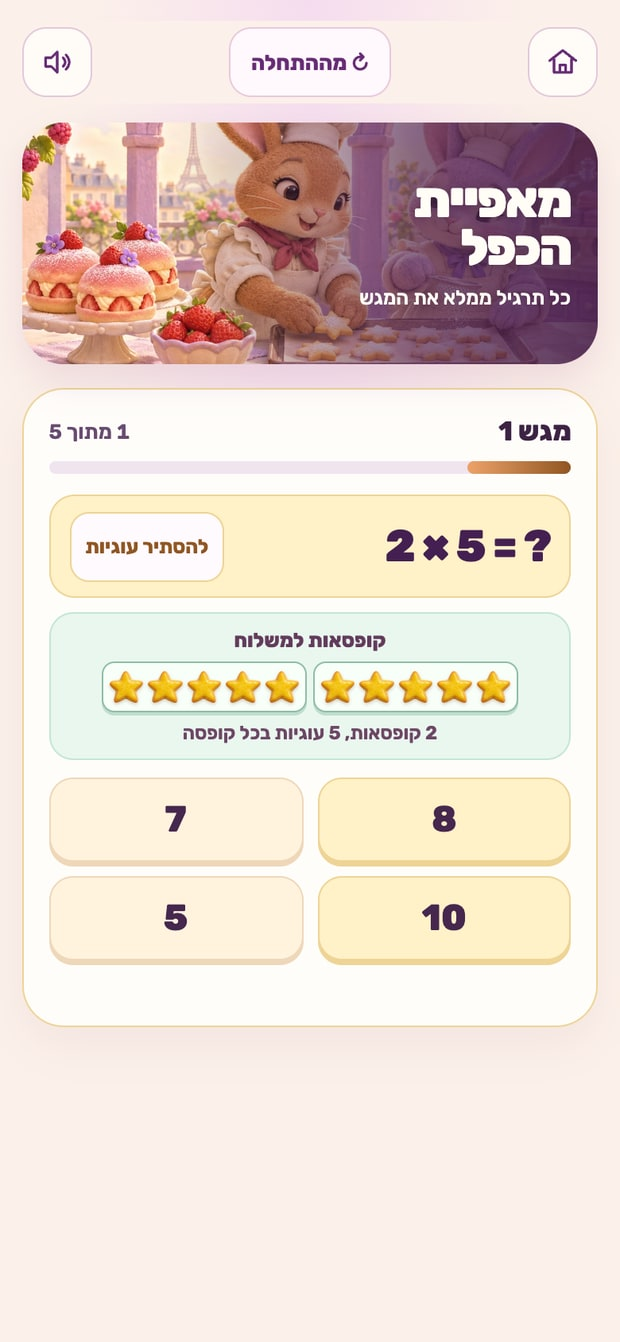
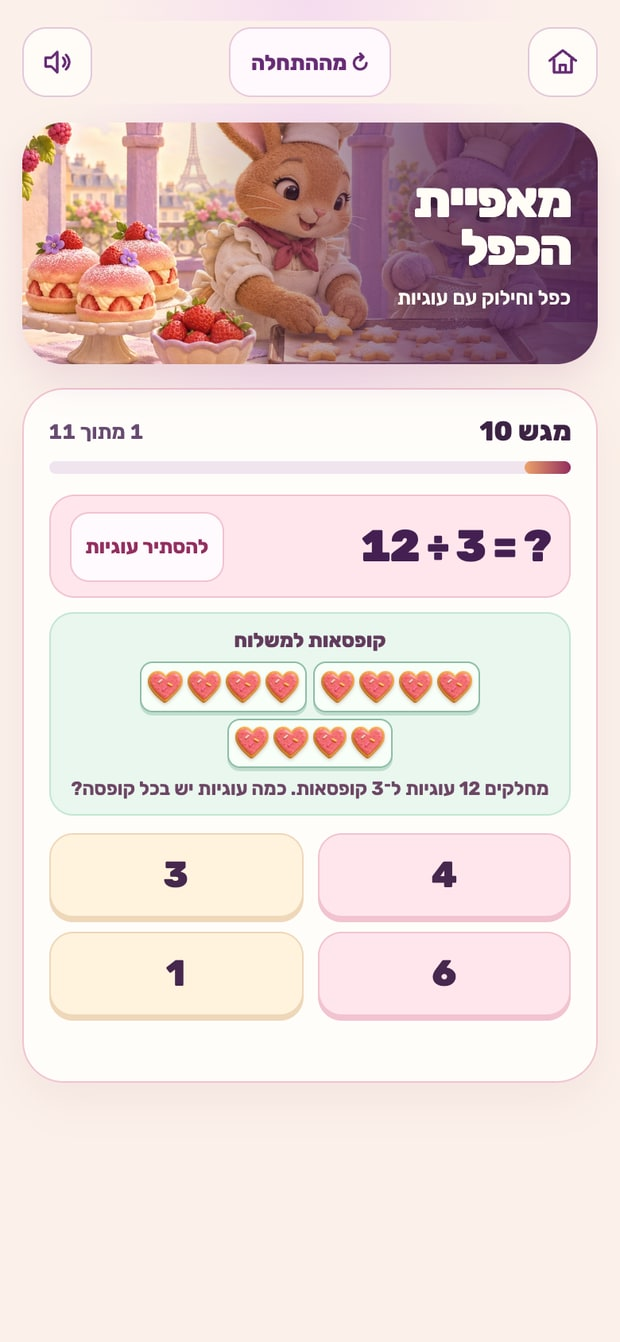
Practice exact division alongside multiplication

Changed region(s): [[0.0306, 0.3055, 0.9806, 0.7943], [0.5823, 0.2139, 0.8887, 0.2444], [0.0919, 0.3055, 0.2452, 0.3361]]

diff --git a/game.js b/game.js
@@ -1,4 +1,4 @@
-import { makeFact, orderSize } from "./facts.js?v=2";
+import { makeFact, orderSize } from "./facts.js?v=3";
 import { makeSound } from "./sound.js?v=4";
 
 const $ = id => document.getElementById(id);
@@ -61,7 +61,14 @@ function makeCookies() {
   const grid = document.createElement("div");
   grid.className = "cookie-grid";
   grid.style.setProperty("--columns", layout.id === "boxes" ? Math.min(5, fact.b) : fact.b);
-  grid.setAttribute("aria-hidden", "true");
+  const groupCount = fact.a === 1 ? "קבוצה אחת" : fact.a + " " + layout.groups;
+  if (fact.operation === "division") {
+    grid.setAttribute("role", "img");
+    const cookiesPerGroup = fact.b === 1 ? "עוגייה אחת" : fact.b + " עוגיות";
+    grid.setAttribute("aria-label", groupCount + ", " + cookiesPerGroup + " בכל " + layout.unit);
+  } else {
+    grid.setAttribute("aria-hidden", "true");
+  }
   for (let group = 0; group < fact.a; group++) {
     const row = document.createElement("div");
     row.className = "cookie-group";
@@ -77,9 +84,17 @@ function makeCookies() {
   }
   const caption = document.createElement("p");
   caption.className = "cookie-caption";
-  caption.textContent = fact.missing === "a" ? "ספרו כמה " + layout.groups + " יש."
-    : fact.missing === "b" ? "ספרו כמה עוגיות יש בכל " + layout.unit + "."
-    : fact.a + " " + layout.groups + ", " + fact.b + " עוגיות בכל " + layout.unit;
+  if (fact.operation === "division") {
+    const total = fact.product === 1 ? "עוגייה אחת" : fact.product + " עוגיות";
+    const arrangement = fact.a === 1 ? "שמים " + total + " בקבוצה אחת" : "מחלקים " + total + " ל־" + groupCount;
+    caption.textContent = arrangement + ". כמה עוגיות יש בכל " + layout.unit + "?";
+  } else if (fact.missing === "a") {
+    caption.textContent = "ספרו כמה " + layout.groups + " יש.";
+  } else if (fact.missing === "b") {
+    caption.textContent = "ספרו כמה עוגיות יש בכל " + layout.unit + ".";
+  } else {
+    caption.textContent = fact.a + " " + layout.groups + ", " + fact.b + " עוגיות בכל " + layout.unit;
+  }
   model.replaceChildren(label, grid, caption);
 }
 
@@ -90,8 +105,9 @@ function newOrder() {
   flavor = (level - 1 + solved) % recipes.length;
   workbench.dataset.flavor = recipes[flavor];
   feedback.textContent = "";
-  const equation = [fact.missing === "a" ? "?" : fact.a, "×", fact.missing === "b" ? "?" : fact.b,
-    "=", fact.missing === "product" ? "?" : fact.product];
+  const equation = fact.operation === "division" ? [fact.product, "÷", fact.a, "=", "?"]
+    : [fact.missing === "a" ? "?" : fact.a, "×", fact.missing === "b" ? "?" : fact.b,
+      "=", fact.missing === "product" ? "?" : fact.product];
   $("problem").textContent = equation.join(" ");
   makeCookies();
   renderModel(false);
@@ -124,7 +140,9 @@ function choose(value, button) {
   progress();
   button.classList.add("correct");
   for (const option of choices.children) option.setAttribute("aria-disabled", "true");
-  feedback.textContent = "נכון! " + fact.a + " כפול " + fact.b + " שווה " + fact.product;
+  feedback.textContent = fact.operation === "division"
+    ? "נכון! " + fact.product + " לחלק ל־" + fact.a + " שווה " + fact.b
+    : "נכון! " + fact.a + " כפול " + fact.b + " שווה " + fact.product;
   const complete = solved === orderSize(level);
   play(complete ? "ready" : "correct", flavor);
   save(complete ? level + 1 : level);

diff --git a/facts.js b/facts.js
@@ -14,13 +14,14 @@ export function shuffle(values, random = Math.random) {
 }
 
 export function makeFact(level, solved, previous, mistakes, random = Math.random) {
+  const operation = solved % 3 === 1 ? "division" : "multiplication";
   const unlocked = tables.slice(0, level + 1);
   const focus = level <= 9 ? unlocked.at(-1) : null;
   const candidates = [];
   let weightSum = 0;
   for (const a of unlocked) {
     for (let b = 1; b <= Math.min(4 + level, 10); b++) {
-      const key = a + "x" + b;
+      const key = a + (operation === "division" ? "d" : "x") + b;
       if (key === previous) continue;
       weightSum += 1 + (a === focus ? 3 : 0) + Math.min(5, mistakes[key] || 0) * 2;
       candidates.push({ a, b, key, threshold: weightSum });
@@ -30,12 +31,15 @@ export function makeFact(level, solved, previous, mistakes, random = Math.random
   const pick = random() * weightSum;
   const fact = candidates.find(candidate => candidate.threshold > pick);
   let { a, b } = fact;
-  if (level >= 4 && random() < .44) [a, b] = [b, a];
-  const missing = level >= 6 && (solved + level) % (level >= 10 ? 2 : 3) === 0
-    ? (random() < .5 ? "a" : "b")
-    : "product";
+  if (operation === "multiplication" && level >= 4 && random() < .44) [a, b] = [b, a];
+  let missing = "product";
+  if (operation === "division") {
+    missing = "quotient";
+  } else if (level >= 6 && (solved + level) % (level >= 10 ? 2 : 3) === 0) {
+    missing = random() < .5 ? "a" : "b";
+  }
   const product = a * b;
-  const answer = missing === "a" ? a : missing === "b" ? b : product;
+  const answer = missing === "a" ? a : missing === "b" || missing === "quotient" ? b : product;
   const limit = missing === "product" ? 100 : 10;
   const near = missing === "product"
     ? [product-a, product+a, product-b, product+b, product-2, product+2, a+b]
@@ -50,5 +54,5 @@ export function makeFact(level, solved, previous, mistakes, random = Math.random
     if (options.size < 4 && answer - offset >= 1) options.add(answer - offset);
   }
 
-  return { a, b, key: fact.key, missing, answer, product, options: shuffle([...options], random) };
+  return { a, b, key: fact.key, operation, missing, answer, product, options: shuffle([...options], random) };
 }

diff --git a/index.html b/index.html
@@ -5,13 +5,13 @@
   <meta name="viewport" content="width=device-width, initial-scale=1, viewport-fit=cover">
   <meta name="theme-color" content="#fcf1ea">
   <meta name="apple-mobile-web-app-title" content="מאפיית הכפל">
-  <meta name="description" content="אופים מגשי כפל, פותרים תרגילים ומתקדמים בלוח הכפל עד 10×10.">
+  <meta name="description" content="ממלאים מגשי עוגיות עם תרגילי כפל וחילוק המבוססים על לוח הכפל עד 10×10.">
   <title>מאפיית הכפל</title>
   <link rel="icon" href="assets/icon-192.png" type="image/png">
   <link rel="apple-touch-icon" href="assets/apple-touch-icon.png" sizes="180x180">
   <link rel="manifest" href="manifest.json">
   <link rel="stylesheet" href="style.css?v=4">
-  <script type="module" src="game.js?v=5"></script>
+  <script type="module" src="game.js?v=6"></script>
 </head>
 <body>
   <main class="app">
@@ -29,7 +29,7 @@
       <img src="assets/shop.webp" alt="" fetchpriority="high" draggable="false">
       <div class="banner-copy">
         <h1>מאפיית<br>הכפל</h1>
-        <p>כל תרגיל ממלא את המגש</p>
+        <p>כפל וחילוק עם עוגיות</p>
       </div>
     </section>
 

diff --git a/README.md b/README.md
@@ -1,13 +1,13 @@
 # מאפיית הכפל
 
-משחק מגע ללימוד ותרגול לוח הכפל עד 10×10. כל תשובה נכונה ממלאת מקום במגש ומקדמת לתרגיל הבא.
+משחק מגע לתרגול כפל עד 10×10 וחילוק עם תוצאה שלמה מאותו לוח, למשל 56 ÷ 7. כל תשובה נכונה ממלאת מקום במגש ומקדמת לתרגיל הבא.
 
 **[לפתוח ולשחק](https://amitshe.github.io/multiplication-bakery/)** · **[מגרש המשחקים](https://amitshe.github.io/)**
 
 ## איך משחקים
 
 1. בוחרים את התשובה הנכונה מתוך ארבע אפשרויות.
-2. לוחצים על **לראות עוגיות** כדי לראות את הכפל בעוגיות מאוירות. העזרה מתחלפת בין שורות במגש, קופסאות ומדפי ויטרינה, ונסגרת כשמופיע תרגיל חדש.
+2. לוחצים על **לראות עוגיות** כדי להמחיש את התרגיל. בתרגיל חילוק מחלקים את הכמות לקבוצות שוות וסופרים כמה עוגיות יש בכל קבוצה. העזרה נסגרת כשמופיע תרגיל חדש.
 3. אם טעיתם, בוחרים תשובה אחרת באותו תרגיל. תרגילים שקשה בהם מקבלים סיכוי גבוה יותר לחזור.
 4. כשהמגש מלא, מופיע מגש עוגיות מונפש. מקישים על **למגש הבא** וממשיכים ללוחות נוספים, תרגילים עם גורם חסר ומגשים עם יותר תרגילים. אפשר להמשיך לעוד מגשים בלי שלב סיום.
 
@@ -19,7 +19,7 @@
 
 <p align="center">
   <img src="screenshots/tray.jpg" alt="מגש התרגול עם שורות עוגיות" width="185">
-  <img src="screenshots/boxes.jpg" alt="המחשת כפל באמצעות קופסאות עוגיות" width="185">
+  <img src="screenshots/boxes.jpg" alt="תרגיל חילוק עם קופסאות עוגיות" width="185">
   <img src="screenshots/factor.jpg" alt="תרגיל עם גורם חסר" width="185">
   <img src="screenshots/next.jpg" alt="מגש לילך עם עוגיות טריות וכפתור למגש הבא" width="185">
 </p>
@@ -38,7 +38,7 @@ python3 -m http.server 8000
 
 פותחים את http://localhost:8000/. אין התקנת חבילות או שלב בנייה.
 
-- `facts.js` בוחר תרגילים, גורמים חסרים, תשובות ומספר תרגילים במגש.
+- `facts.js` בוחר תרגילי כפל וחילוק, גורמים חסרים, תשובות ומספר תרגילים במגש.
 - `game.js` מציג את המשחק, מגיב להקשות ושומר התקדמות.
 - `sound.js` מנגן משוב קולי באמצעות Web Audio.
 - `assets/` כולל איורי מאפייה ועוגיות שנוצרו ב־ImageGen, אייקונים וגופני Rubik. רישיון הגופן מצורף.
